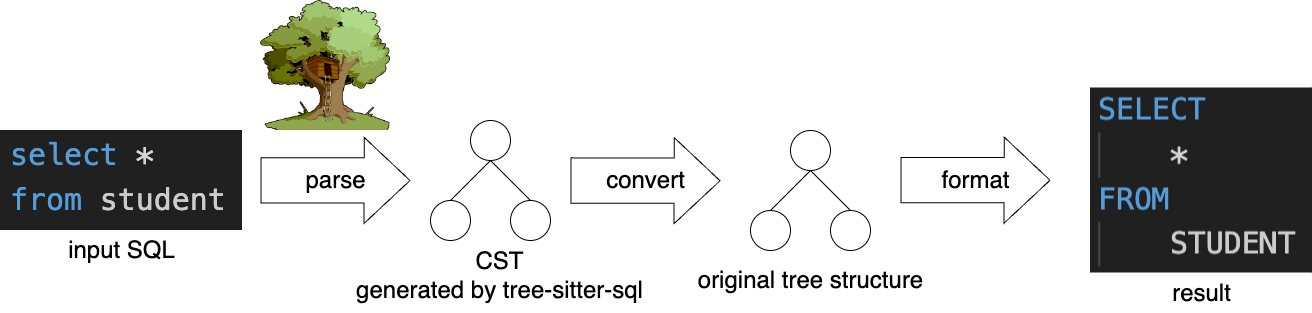
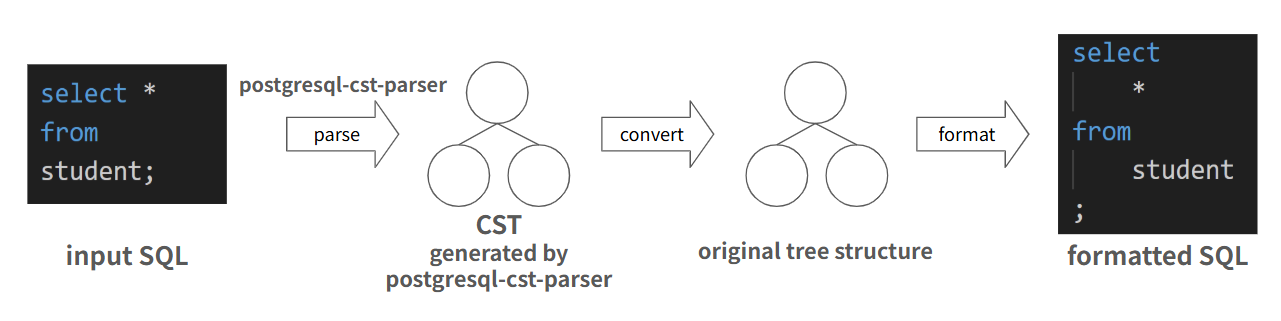
新パーサの構成に合わせドキュメントを更新 (#199)

diff --git a/crates/uroborosql-fmt/src/lib.rs b/crates/uroborosql-fmt/src/lib.rs
@@ -12,9 +12,12 @@ use config::*;
 use error::UroboroSQLFmtError;
 use postgresql_cst_parser::tree_sitter::parse;
 use postgresql_cst_parser::tree_sitter::parse_2way;
+use postgresql_cst_parser::tree_sitter::Node;
 use two_way_sql::format_two_way_sql;
 use two_way_sql::is_two_way_sql;
 use visitor::Visitor;
+
+use std::fmt::Write;
 
 /// 設定ファイルより優先させるオプションを JSON 文字列で与えて、SQLのフォーマットを行う。
 ///
@@ -34,16 +37,14 @@ pub(crate) fn format_sql_with_config(
     src: &str,
     config: Config,
 ) -> Result<String, UroboroSQLFmtError> {
-    if CONFIG.read().unwrap().debug {
-        eprintln!(
-            "use_parser_error_recovery = {}",
-            config.use_parser_error_recovery
-        );
-        eprintln!("parser: postgresql-cst-parser");
-    }
+    load_settings(config.clone());
 
     // パーサの2way-sql用エラー回復機能を使うかどうか
-    let use_parser_error_recovery = config.use_parser_error_recovery;
+    let use_parser_error_recovery = CONFIG.read().unwrap().use_parser_error_recovery;
+
+    if CONFIG.read().unwrap().debug {
+        eprintln!("use_parser_error_recovery: {use_parser_error_recovery}");
+    }
 
     let parse_result = if use_parser_error_recovery {
         parse_2way(src).map_err(|e| UroboroSQLFmtError::ParseError(format!("{e:?}")))
@@ -59,6 +60,7 @@ pub(crate) fn format_sql_with_config(
             }
 
             validate_format_result(src, false)?;
+            // validate で設定が上書きされるので再度読み込む
             load_settings(config);
 
             format_cst(&tree, src)
@@ -72,36 +74,12 @@ pub(crate) fn format_sql_with_config(
                 }
 
                 validate_format_result(src, true)?;
+                // validate で設定が上書きされるので再度読み込む
                 load_settings(config);
 
                 format_two_way_sql(src)
             } else {
                 Err(e)
-            }
-        }
-    }
-}
-
-#[allow(unused)]
-fn print_cst(node: postgresql_cst_parser::tree_sitter::Node, depth: usize) {
-    for _ in 0..depth {
-        eprint!("\t");
-    }
-    eprint!(
-        "{} [{}-{}]",
-        node.kind(),
-        node.start_position(),
-        node.end_position()
-    );
-
-    let mut cursor = node.walk();
-    if cursor.goto_first_child() {
-        loop {
-            eprintln!();
-            print_cst(cursor.node(), depth + 1);
-            //次の兄弟ノードへカーソルを移動
-            if !cursor.goto_next_sibling() {
-                break;
             }
         }
     }
@@ -122,9 +100,10 @@ pub(crate) fn format_cst(
     tree: &postgresql_cst_parser::tree_sitter::Tree,
     src: &str,
 ) -> Result<String, UroboroSQLFmtError> {
-    // if CONFIG.read().unwrap().debug {
-    //     eprintln!("CST: {:#?}", tree);
-    // }
+    if CONFIG.read().unwrap().debug {
+        eprintln!("CST:");
+        print_cst(tree.root_node(), 0);
+    }
 
     // ビジターオブジェクトを生成
     let mut visitor = Visitor::default();
@@ -132,9 +111,10 @@ pub(crate) fn format_cst(
     // SQLソースファイルをフォーマット用構造体に変換する
     let stmts = visitor.visit_sql(tree.root_node(), src.as_ref())?;
 
-    // if CONFIG.read().unwrap().debug {
-    //     eprintln!("{stmts:#?}");
-    // }
+    if CONFIG.read().unwrap().debug {
+        eprintln!();
+        eprintln!("{stmts:#?}");
+    }
 
     let result = stmts
         .iter()
@@ -142,4 +122,37 @@ pub(crate) fn format_cst(
         .collect();
 
     Ok(result)
+}
+
+fn print_cst(node: Node, depth: usize) {
+    let mut output = String::new();
+    write_cst(node, depth, &mut output).expect("debug: writing to string should not fail");
+    eprintln!("{output}");
+}
+
+fn write_cst(node: Node, depth: usize, output: &mut String) -> std::fmt::Result {
+    for _ in 0..depth {
+        write!(output, "  ")?;
+    }
+    write!(
+        output,
+        "{} [{}-{}]",
+        node.kind(),
+        node.start_position(),
+        node.end_position()
+    )?;
+
+    let mut cursor = node.walk();
+    if cursor.goto_first_child() {
+        loop {
+            writeln!(output)?;
+            write_cst(cursor.node(), depth + 1, output)?;
+            //次の兄弟ノードへカーソルを移動
+            if !cursor.goto_next_sibling() {
+                break;
+            }
+        }
+    }
+
+    Ok(())
 }

diff --git a/crates/uroborosql-fmt/src/config.rs b/crates/uroborosql-fmt/src/config.rs
@@ -79,7 +79,7 @@ fn default_use_parser_error_recovery() -> bool {
     true
 }
 
-#[derive(Serialize, Deserialize, Debug)]
+#[derive(Serialize, Deserialize, Debug, Clone)]
 #[serde(rename_all = "lowercase")]
 pub(crate) enum Case {
     Upper,
@@ -105,7 +105,7 @@ impl Case {
 }
 
 /// 設定を保持する構造体
-#[derive(Serialize, Deserialize, Debug)]
+#[derive(Serialize, Deserialize, Debug, Clone)]
 pub struct Config {
     /// デバッグモード
     #[serde(default = "default_debug")]
@@ -232,7 +232,7 @@ impl Default for Config {
 
 /// 引数に与えた Config 構造体をグローバル変数 CONFIG に読み込む
 pub(crate) fn load_settings(config: Config) {
-    *CONFIG.write().unwrap() = config
+    *CONFIG.write().unwrap() = config;
 }
 
 /// 補完・削除を行わない設定をロードする

diff --git a/README.md b/README.md
@@ -21,7 +21,7 @@ The main features:
   - However, not all PostgreSQL syntax is supported.
 - Supports 2way-sql such as [uroboroSQL](https://future-architect.github.io/uroborosql-doc/) and [doma2](https://doma.readthedocs.io/en/latest/).
 - Some Auto Fix functions are available.
-- All indentation is done in tabs.
+- Uses tabs for indentation by default (configurable to use spaces).
 - **Leading comma style**, not a trailing comma style.
 
 	```sql
@@ -85,11 +85,12 @@ If there is no configuration file, the default values are used.
 | [`convert_double_colon_cast`](docs/options/convert_double_colon_cast.md)       | bool                                 | Convert casts by `X::type` to the form `CAST(X AS type)`.                                                                                                                                                                                              | true    |
 | [`unify_not_equal`](docs/options/unify_not_equal.md)                           | bool                                 | Convert comparison operator `<>` to `!=`                                                                                                                                                                                                               | true    |
 | [`indent_tab`](docs/options/indent_tab.md)                                     | bool                                 | Switch the indentation style between tabs and spaces.                                                                                                                                                                                                  | true    |
+| [`use_parser_error_recovery`](docs/options/use_parser_error_recovery.md)       | bool                                 | Enable error recovery in the SQL parser.                                                                                                                                                                                                               | true    |
 
 ## Structure
 
 - [Overview of the process flow](docs/structure/overview_of_the_process_flow.md)
-  - This tool uses [tree-sitter](https://github.com/tree-sitter/tree-sitter) and [tree-sitter-sql](https://github.com/future-architect/tree-sitter-sql) (upstream: [m-novikov/tree-sitter-sql](https://github.com/m-novikov/tree-sitter-sql)). Thanks to the developers of these tools.
+  - This tool uses [postgresql-cst-parser](https://github.com/future-architect/postgresql-cst-parser) (upstream: [tanzaku/postgresql-cst-parser](https://github.com/tanzaku/postgresql-cst-parser)). Special thanks to [tanzaku](https://github.com/tanzaku) for the original work.
 - [How to format 2way-sql](docs/structure/how_to_format_2way_sql.md)
 
 ## License

diff --git a/docs/structure/how_to_format_2way_sql.md b/docs/structure/how_to_format_2way_sql.md
@@ -1,9 +1,26 @@
 # How to format 2way-sql
 
-![2way-sql_example](../../images/2way_sql.png)
+To format 2way-sql, the formatter uses two complementary strategies:
 
-If the input SQL contains an IF branch, it is judged to be 2-way-sql and formatted in the following flow.
+## 1. Syntax error recovery
 
-1. Generate multiple SQLs that can occur, taking into account all branches of the input SQL.
-2. Format all SQL.
-3. Merge all formatting results and output
+When the [parser error recovery](../options/use_parser_error_recovery.md) option is enabled, the formatter first attempts to parse the input using that mechanism.  
+The recovery process corrects common syntax issues that often appear in hand-written SQL or in unfinished 2way-sql, for example:
+
+- An extra comma at the beginning of a list (e.g., a leading comma in the column list).
+- Unnecessary `AND`/`OR` placed immediately after the `WHERE` keyword.
+- Missing sample values for bind parameters such as `/*foo*/`.
+- Placeholder strings without values such as `/*#bar*/`.
+
+For concrete examples, see the sample SQL in the option document linked above.
+If the SQL is successfully recovered at this stage and no conditional branches remain, it is formatted immediately.
+
+## 2. Branch enumeration and formatting
+
+![2way-sql_branch_enumeration](../../images/2way_sql_branch_enumeration.png)
+
+If the parser cannot parse the statement and conditional blocks such as `/*IF foo*/ … /*END*/` are present, the formatter switches to branch enumeration:
+
+1. Generate all SQL statements that can result from evaluating all IF branches of the input.
+2. Format each generated SQL independently.
+3. Merge the formatted strings into a single output.

diff --git a/docs/options/use_parser_error_recovery.md b/docs/options/use_parser_error_recovery.md
@@ -1,0 +1,32 @@
+# use_parser_error_recovery
+
+Enable error recovery in the SQL parser.
+
+When this option is enabled, `postgresql-cst-parser` attempts to recover from certain syntax errors and continues formatting.
+
+Internally, this feature relies on the `parse_2way` function of `postgresql-cst-parser`. You can refer to the original source code and documentation [here](https://github.com/future-architect/postgresql-cst-parser/blob/eeb064fb948c9496b9f108ffbe4621905a14a152/crates/postgresql-cst-parser/src/lib.rs#L103-L118).
+
+## Options
+
+- `true` (default): Enable parser error recovery and format even when the SQL has syntax errors.
+- `false`: Disable parser error recovery. If a parse error occurs, the formatter returns an error without modifying the SQL.
+
+## Example
+
+With error recovery enabled, SQL like the following can be formatted without raising a parse error.
+
+```sql
+SELECT
+,	/*foo*/
+,	/*bar*/
+FROM
+,	/*#baz*/
+,	/*#qux*/
+WHERE
+AND	1	=	1
+AND	2	=	2
+ORDER BY
+,	1
+,	2
+;
+```

diff --git a/docs/options/debug.md b/docs/options/debug.md
@@ -4,10 +4,11 @@ Run in debug mode.
 
 Output the following information to standard error output.
 
+- Whether the parser error recovery function is enabled.
 - Whether formatting was done in 2way-sql mode or normal mode.
-- Parsing results for tree-sitter-sql.
-- Unique structure generated from tree-sitter-sql parse results.
-- Formatting results for each SQL (only 2way-sql mode).
+- Parsing results produced by postgresql-cst-parser.
+- Unique structure generated from the parse results of postgresql-cst-parser.
+- Formatting results for each SQL (2way-sql mode only).
 
 ## Options
 

diff --git a/docs/structure/overview_of_the_process_flow.md b/docs/structure/overview_of_the_process_flow.md
@@ -2,6 +2,6 @@
 
 <img src="../../images/process_flow.png"/>
 
-1. Parse input SQL with tree-sitter-sql [tree-sitter-sql](https://github.com/future-architect/tree-sitter-sql) to get CST.
+1. Parse input SQL with [postgresql-cst-parser](https://github.com/future-architect/postgresql-cst-parser) to get CST.
 2. Parsing CSTs and converting them into their original tree structure.
 3. Formatting and output using original tree structure.
